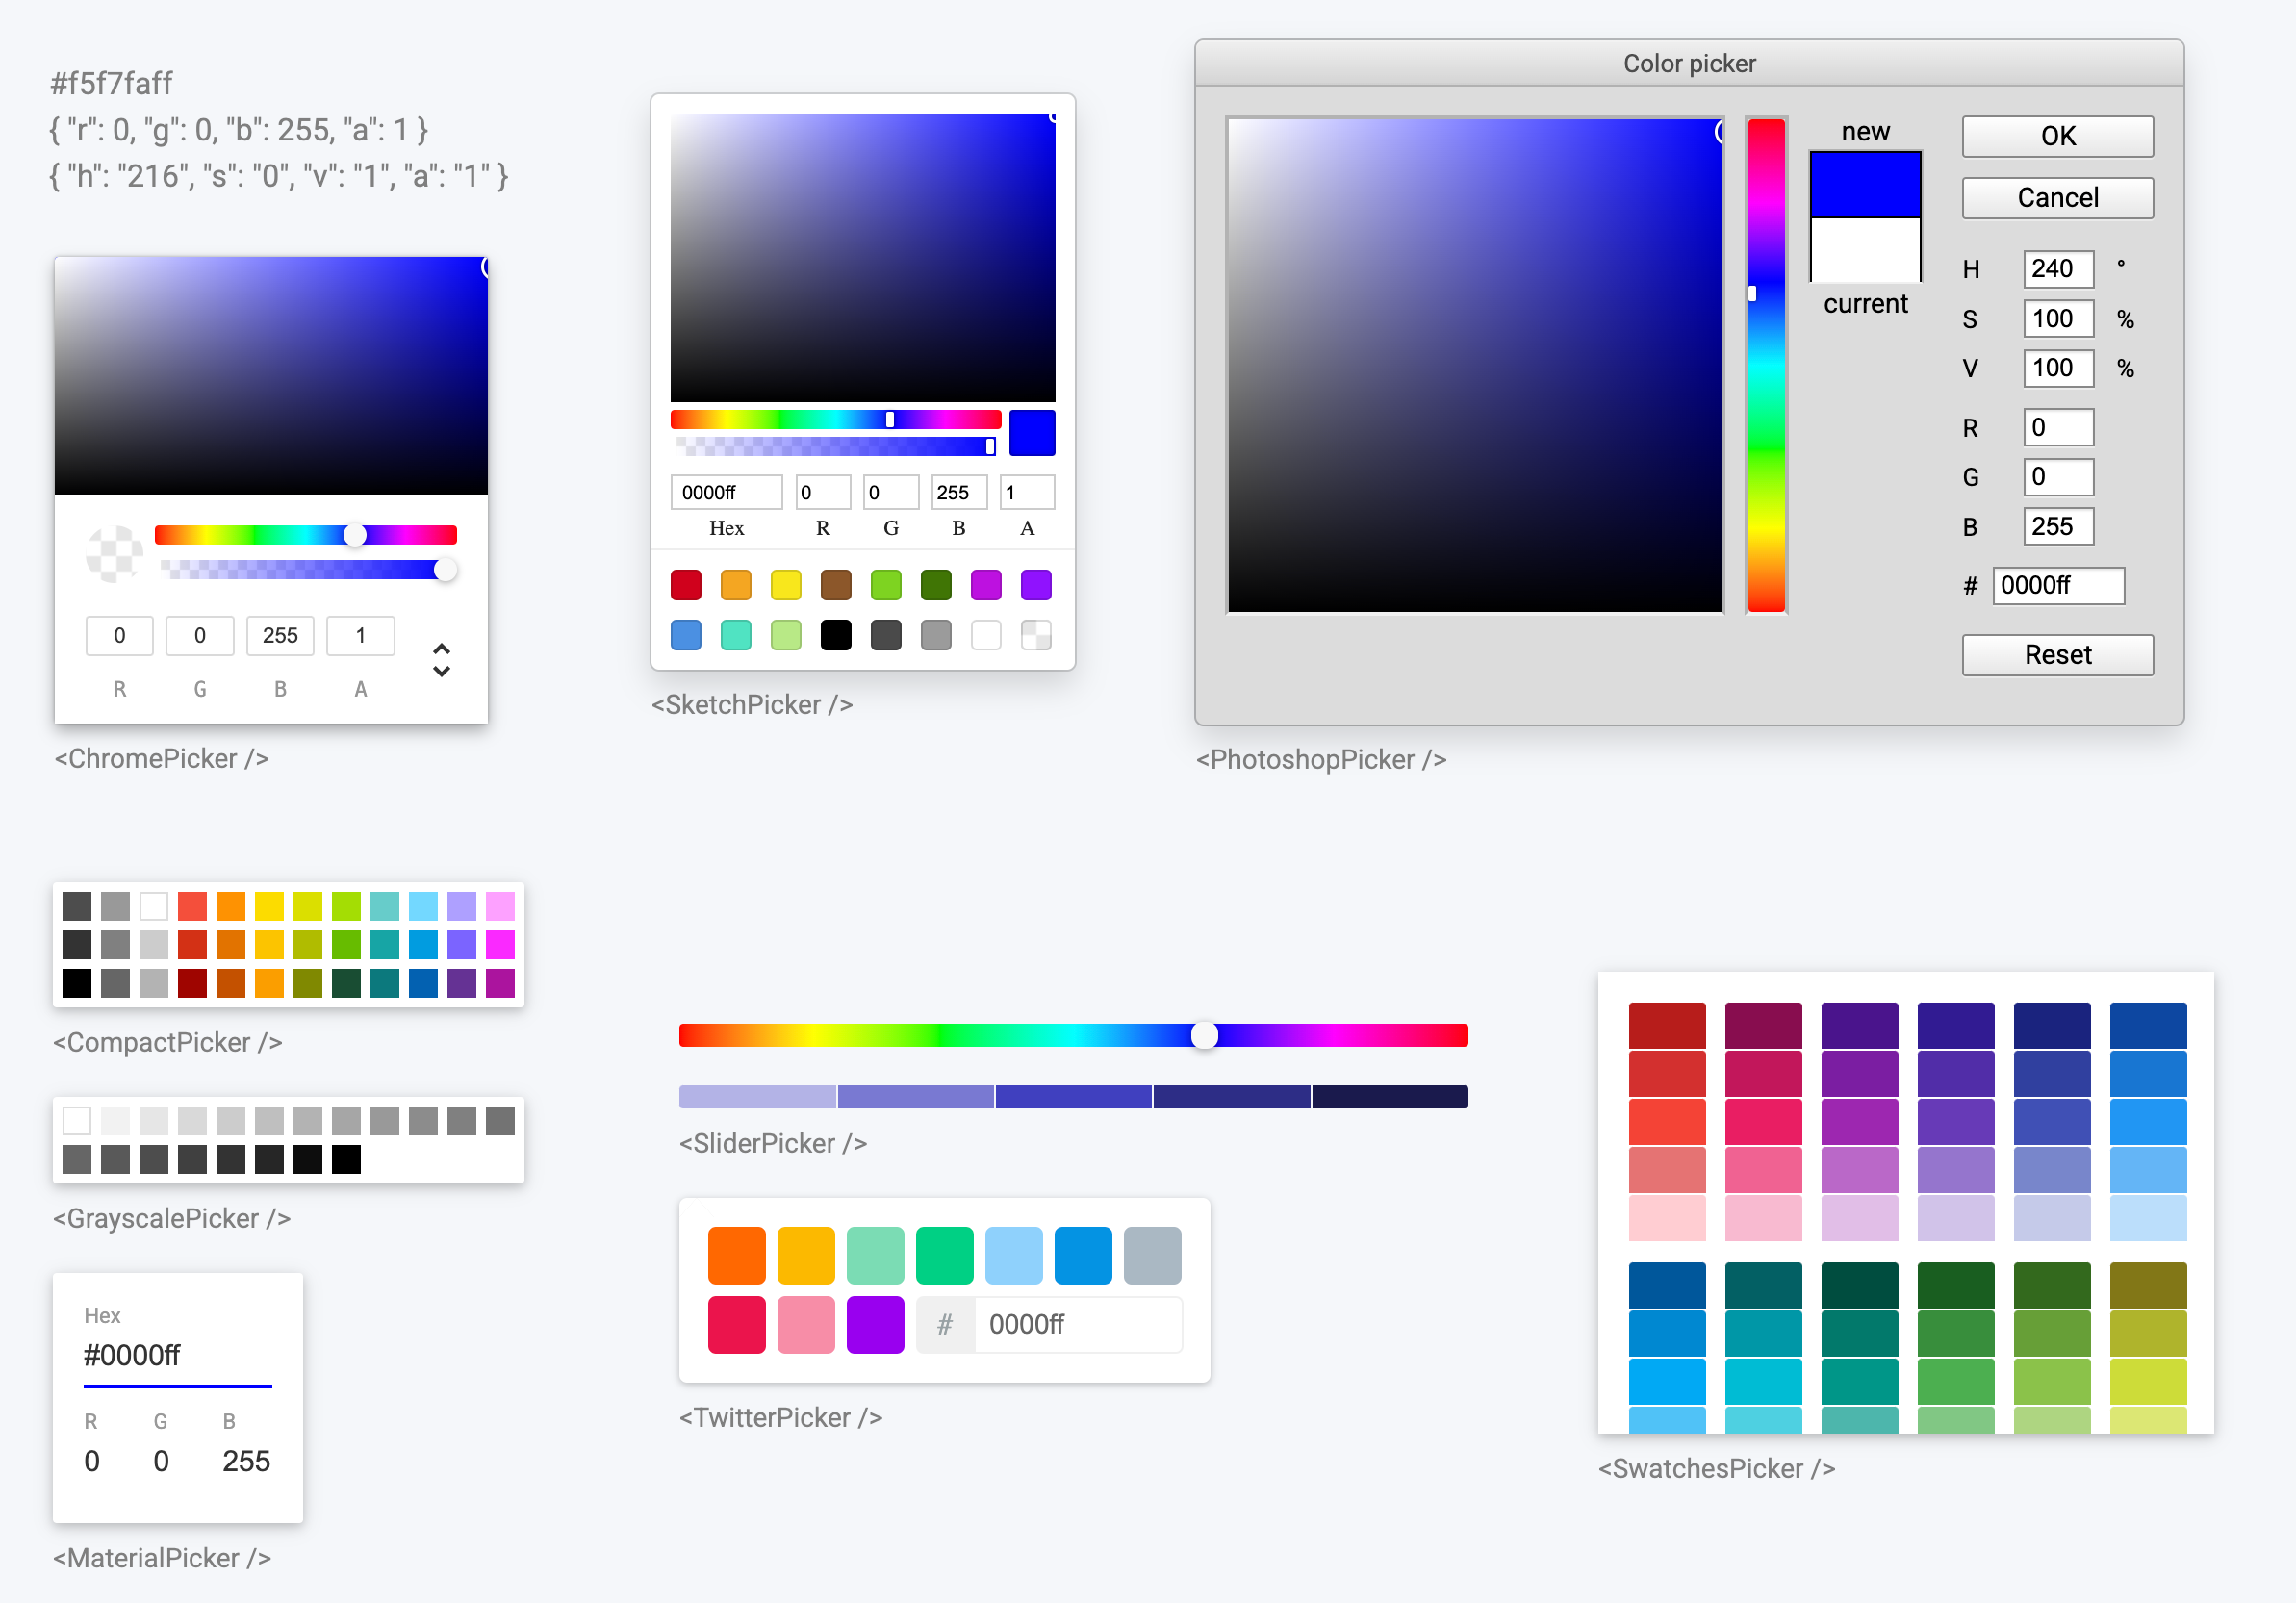
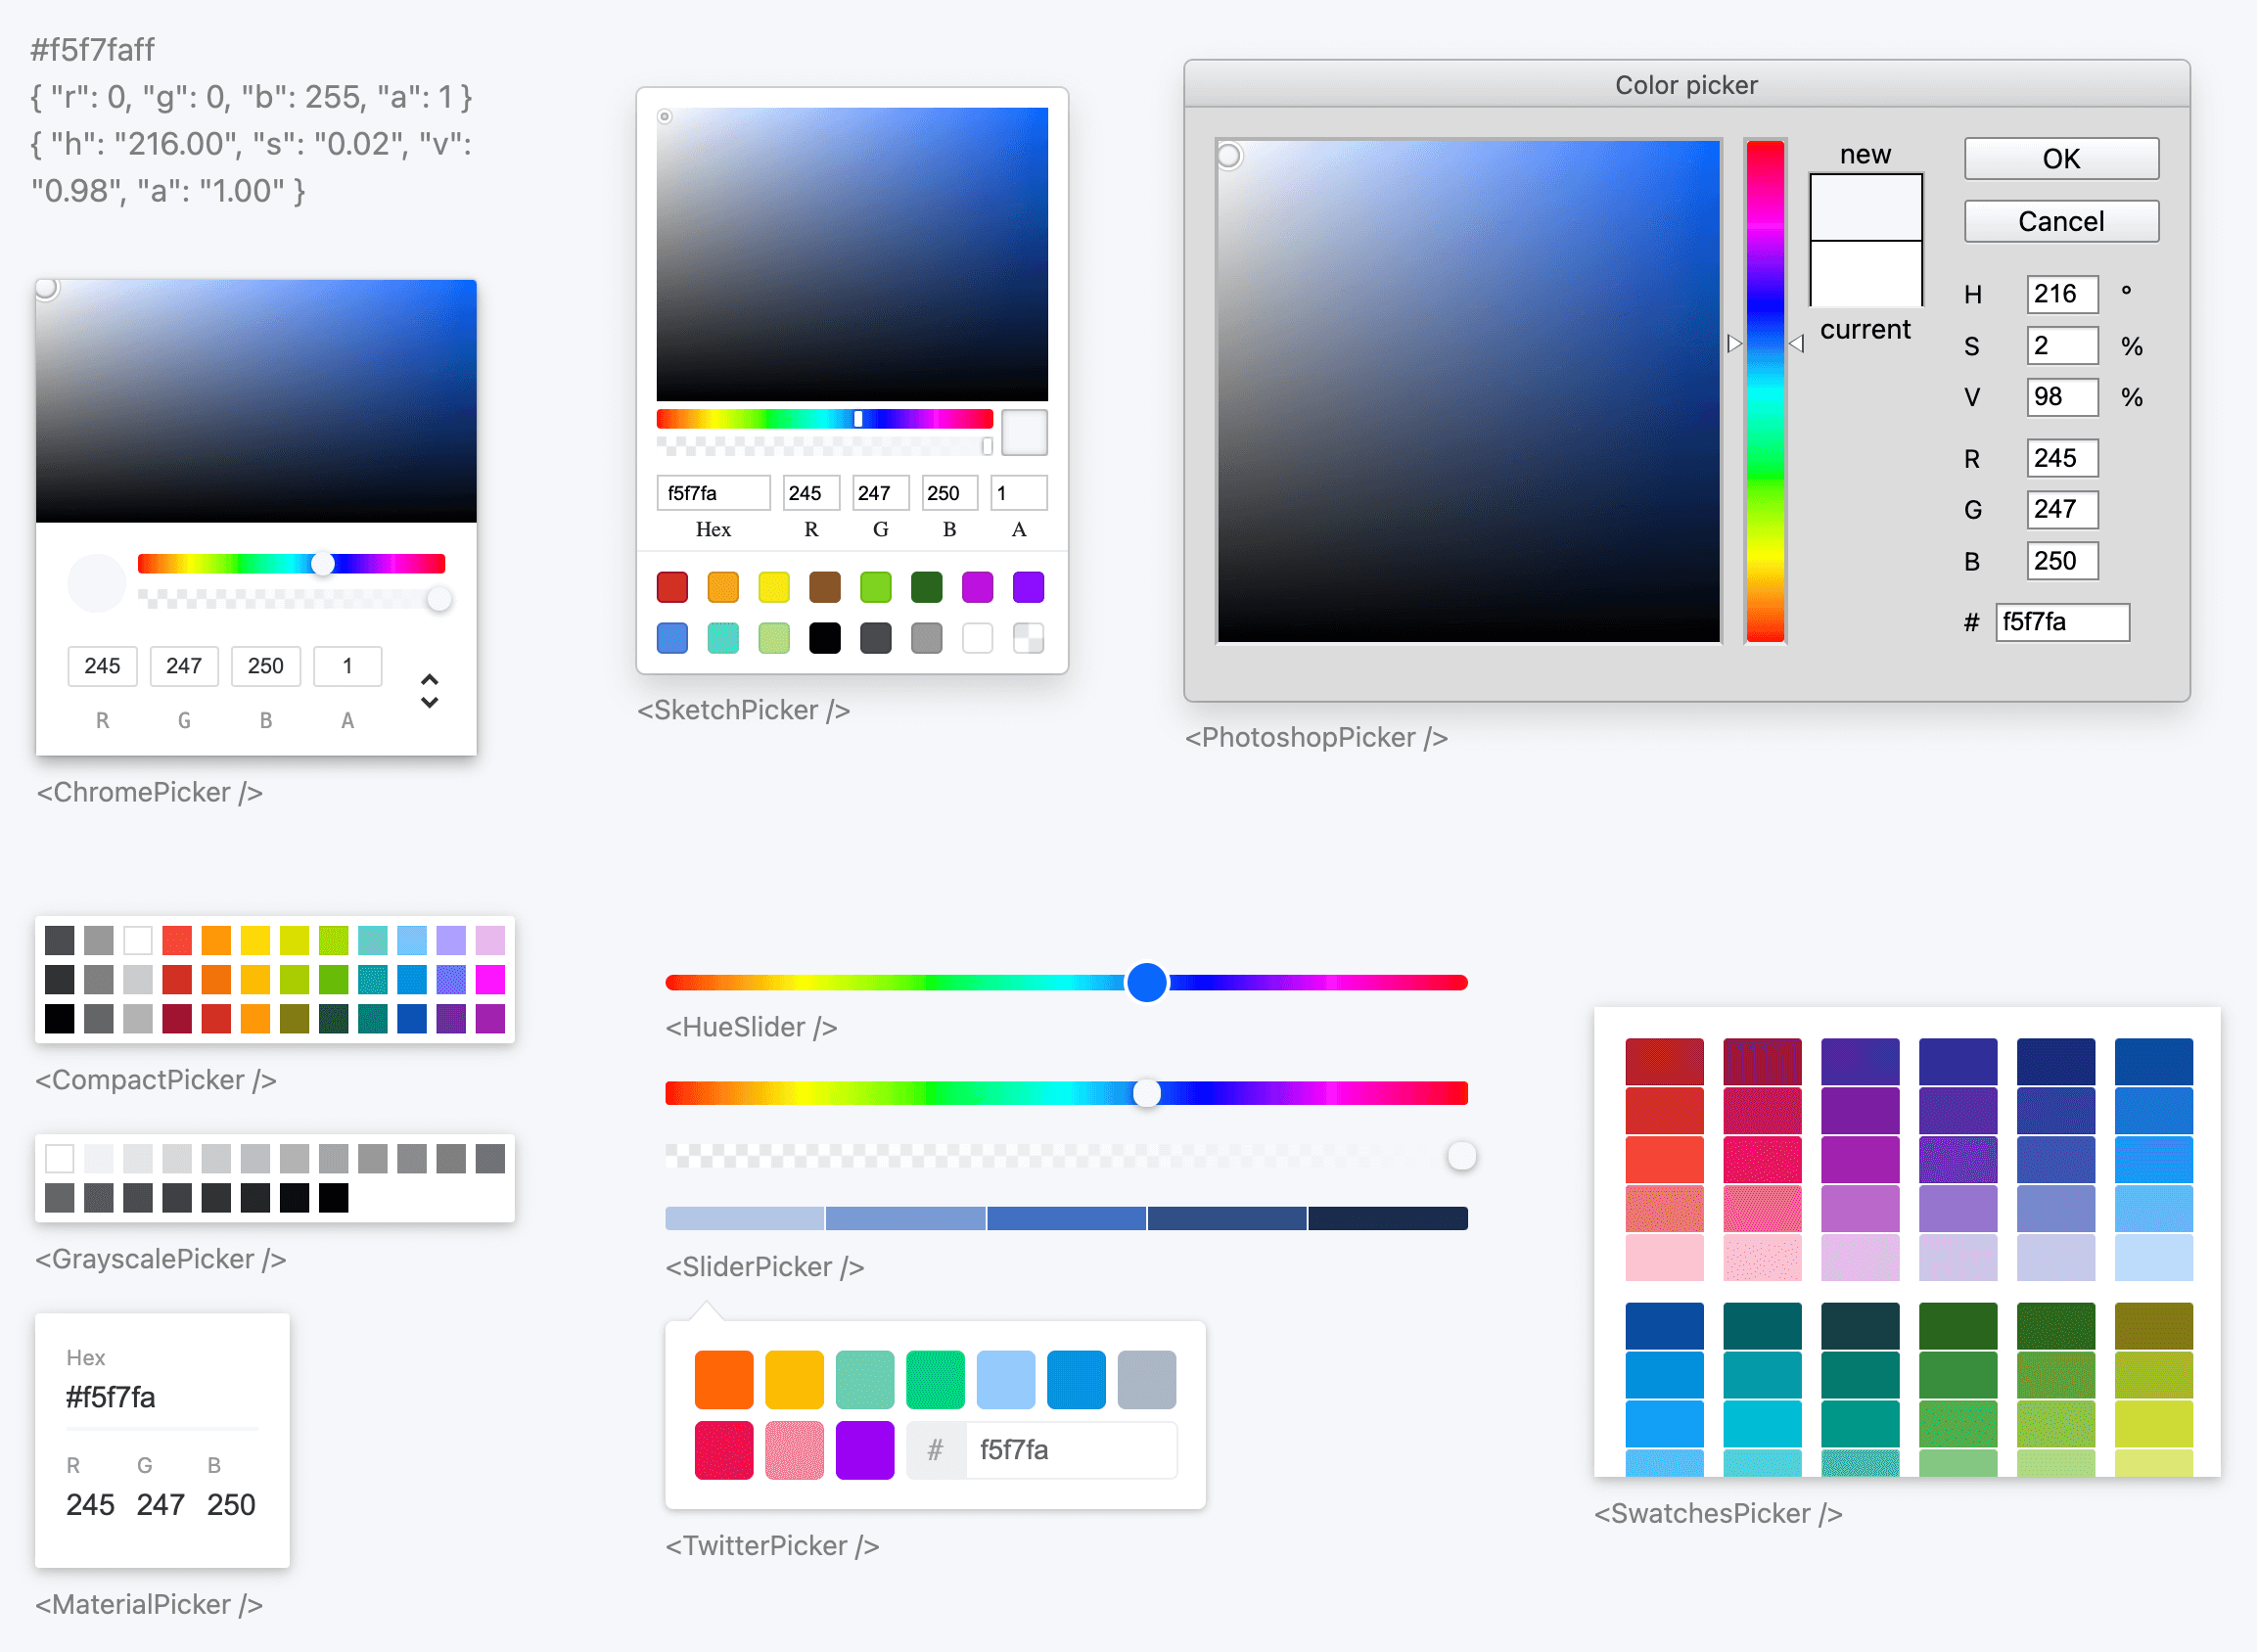
docs: update README

diff --git a/demo/App.vue b/demo/App.vue
@@ -18,7 +18,7 @@ import {
 
 // import '../dist/vue-color.css'
 
-const tinyColor = defineModel('tinycolor', {
+const tinyColor = defineModel('tinyColor', {
   default: tinycolor('#F5F7FA')
 });
 

diff --git a/demo/index.html b/demo/index.html
@@ -4,7 +4,7 @@
     <meta charset="UTF-8" />
     <link rel="icon" type="image/svg+xml" href="/vite.svg" />
     <meta name="viewport" content="width=device-width, initial-scale=1.0" />
-    <title>Vue Color 3.0</title>
+    <title>Vue-color v3.0</title>
   </head>
   <body>
     <div id="app"></div>

diff --git a/README.md b/README.md
@@ -12,17 +12,19 @@
 
 A collection of efficient and customizable color pickers built with [Vue 3](https://vuejs.org/), designed for modern web development.
 
-<!-- ## [Live demo](http://xiaokaike.github.io/vue-color/) -->
+## 🧪 Live Demo
+
+Explore the components in action: 👉 [Open Live Demo](https://linx4200.github.io/vue-color/)
 
 <img src="./docs/pickers.png" style="width: 800px;">
 
 ## ✨ Features
 
-- **Modular & Tree-Shakable** – Only import what you need.
+- **Modular & Tree-Shakable** – Import only what you use
 
-- **TypeScript Ready** – Full typings for better DX.
+- **TypeScript Ready** – Full typings for better DX
 
-- **SSR-Friendly** – Works seamlessly with server-side rendering frameworks.
+- **SSR-Friendly** – Compatible with Nuxt and other SSR frameworks
 
 - **Optimized for Accessibility** – Built with keyboard navigation and screen readers in mind.
 
@@ -34,22 +36,22 @@ npm install vue-color@next
 yarn add vue-color@next
 ```
 
-## 🔧 Usage
+## 🚀 Quick Start
 
-### Step 1: Import the stylesheet
+### 1. Import styles
 
 ```ts
 // main.ts
 import { createApp } from 'vue'
 import App from './App.vue'
 
-// import stylesheet
+// Import styles
 import 'vue-color/style.css';
 
 createApp(App).mount('#app')
 ```
 
-### Step 2: Import the components
+### 2. Use a color picker component
 
 ```vue
 <template>
@@ -57,7 +59,6 @@ createApp(App).mount('#app')
 </template>
 
 <script setup lang="ts">
-import { reactive } from 'vue'
 import { ChromePicker } from 'vue-color'
 
 const color = defineModel({
@@ -66,9 +67,97 @@ const color = defineModel({
 </script>
 ```
 
+> 📘 For a full list of available components, see the [Documentation](#all-available-pickers).
+
 ## 📚 Documentation
 
-> Coming soon...
+### All Available Pickers
+
+| Color Picker   | Component | Individual API Reference |
+| -------- | ------- | ------- |
+| Chrome  |  `<ChromePicker />`  |  -  |
+|  |     |    |
+|     |     |    |
+
+### Props & Events
+
+All color picker components in `vue-color` share a set of common props and events for handling color updates and synchronization.
+Below we'll take `<ChromePicker />` as an example to illustrate how to work with `v-model`.
+
+#### `v-model`
+
+```vue
+<template>
+  <ChromePicker v-model="color" />
+</template>
+
+<script setup>
+import { ChromePicker } from 'vue-color'
+
+const color = defineModel({
+  default: 'rgb(50, 168, 82)'
+});
+</script>
+```
+
+Using `defineModel` together with `v-model`, the color variable is **two-way bound** to the internal state of the picker component.
+
+Whenever the color changes inside the `<ChromePicker>`, the bound color value is automatically updated.
+
+The `v-model` of `vue-color` accepts a variety of color formats as input. **It will preserve the format you provide**, which is especially useful if you need format consistency throughout your app.
+
+```ts
+const color = defineModel({
+  default: 'hsl(136, 54%, 43%)'
+  // or
+  default: '#32a852'
+  // or
+  default: '#32a852ff'
+  // or
+  default: { r: 255, g: 255, b: 255, a: 1 }
+});
+```
+
+Under the hood, `vue-color` uses [`tinycolor2`](https://www.npmjs.com/package/tinycolor2) to handle color parsing and conversion.
+This means you can pass in any color format that `tinycolor2` supports—and it will just work.
+
+#### `v-model:tinyColor`
+
+```vue
+<template>
+  <ChromePicker v-model:tinyColor="tinyColor" />
+</template>
+
+<script setup>
+import { ChromePicker, tinycolor } from 'vue-color';
+
+const tinyColor = defineModel('tinyColor', {
+  default: tinycolor('#F5F7FA')
+});
+</script>
+```
+
+In addition to plain color values, you can also bind a `tinycolor2` instance using `v-model:tinyColor`.
+This gives you full control and utility of the `tinycolor` API.
+
+> ⚠️ Note: You must use the `tinycolor` exported from `vue-color` to ensure compatibility with the library's internal handling.
+
+### SSR Compatibility
+
+Since `vue-color` relies on DOM interaction, components must be rendered client-side. Example for Nuxt:
+
+```vue
+<template>
+  <ClientOnly>
+    <ChromePicker />
+  </ClientOnly>
+</template>
+
+<script setup lang="ts">
+import { ClientOnly } from '#components';
+import {ChromePicker } from 'vue-color';
+</script>
+```
 
 ## 🤝 Contributing
 